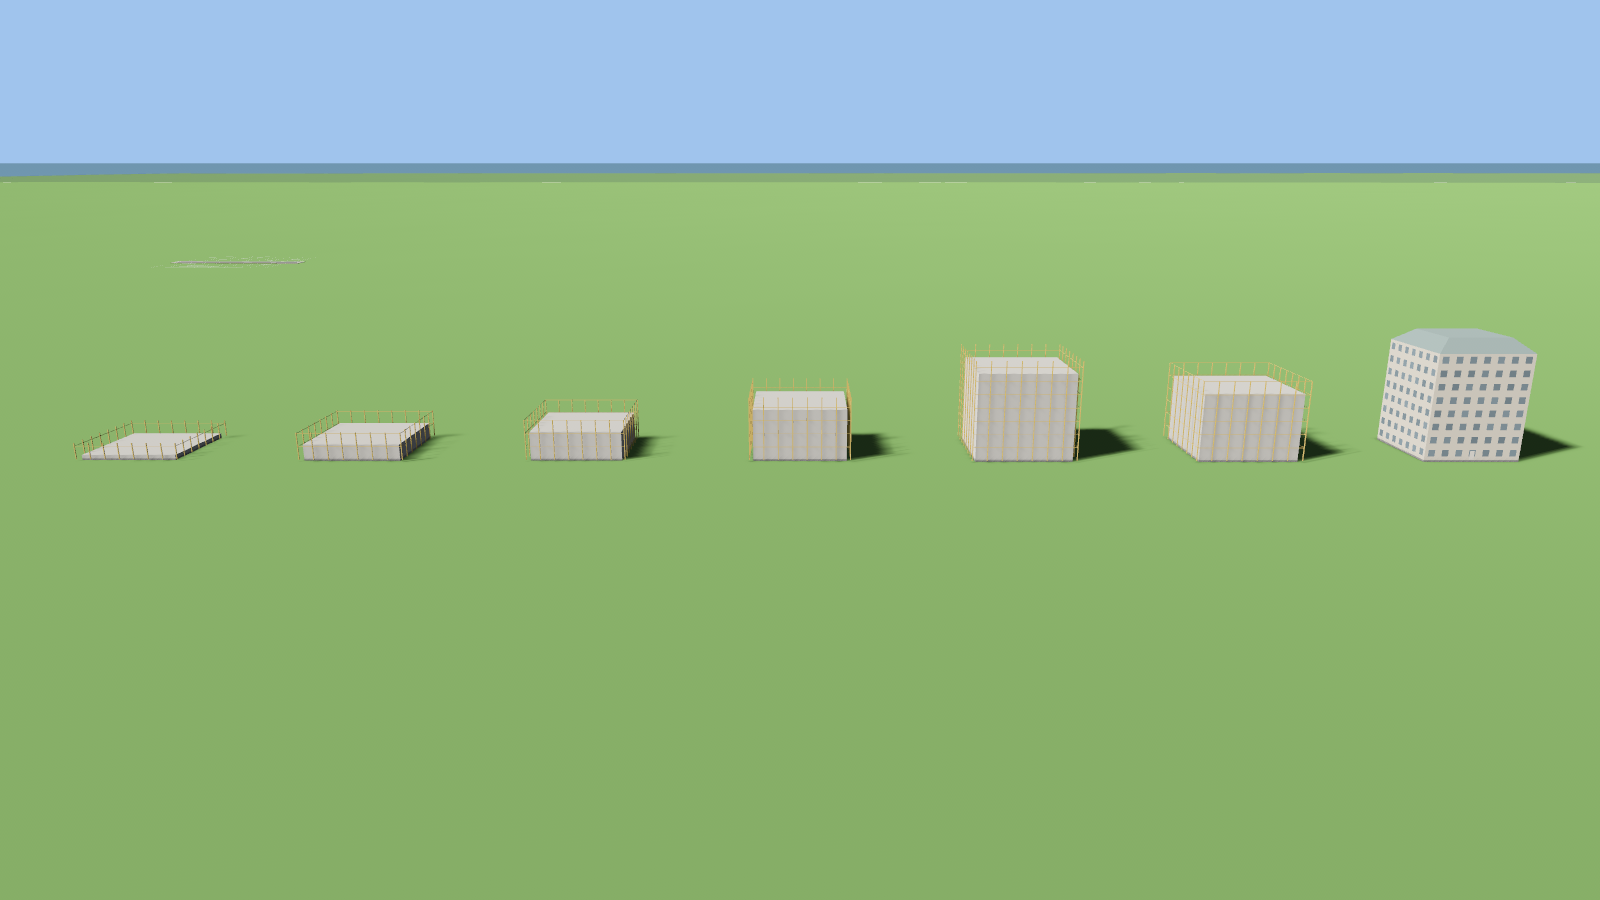
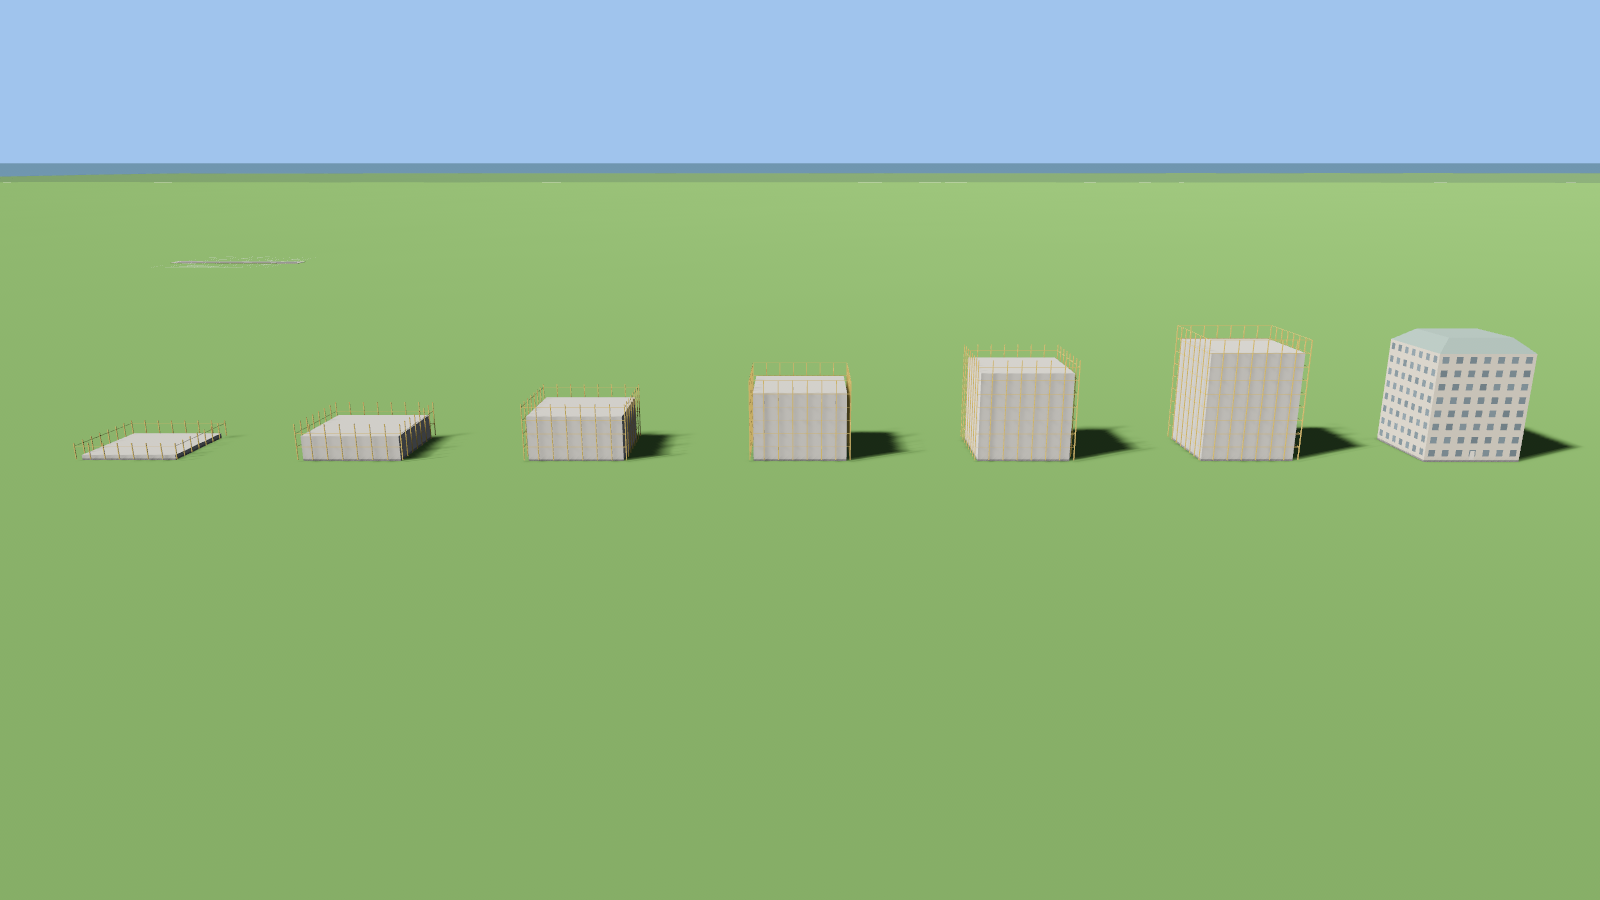
T-235: construction scene shows one def and one floor count (monotonic up to the finished building); construction buildings get their own chunk batch (ChunkKey): a stage change re-merges only those, not the finished buildings around (10k buildings, 200 sites: 13.0 -> 1.2 ms per refresh, worst 92 -> 

diff --git a/crates/cp_render/src/building/tests.rs b/crates/cp_render/src/building/tests.rs
@@ -1103,3 +1103,106 @@ fn a_pump_on_water_stands_above_the_surface() {
     assert!(hut_bottoms.count() > 0);
     assert!(lo.y < surface, "the foundation reaches the bed");
 }
+
+/// T-235 probe: what refreshing the construction stages every 32 ticks costs in a big city.
+/// `cargo test -p cp_render --release building::tests::construction_refresh_cost -- --ignored --nocapture`
+#[test]
+#[ignore = "timing probe, prints numbers"]
+fn construction_refresh_cost() {
+    let e = env();
+    let defs: Vec<_> =
+        e.db.buildings()
+            .filter(|(_, d)| {
+                matches!(
+                    d.zone,
+                    cp_content::ZoneType::ResLow
+                        | cp_content::ZoneType::ResHigh
+                        | cp_content::ZoneType::ComLow
+                )
+            })
+            .map(|(i, _)| i)
+            .collect();
+    for sites in [0usize, 200, 600] {
+        let mut grid = BuildingGrid::new();
+        let mut rng = 12345u64;
+        let mut next = || {
+            rng = rng
+                .wrapping_mul(6364136223846793005)
+                .wrapping_add(1442695040888963407);
+            (rng >> 33) as f32 / (1u64 << 31) as f32
+        };
+        for i in 0..10_000usize {
+            let def = defs[i % defs.len()];
+            let total = build_ticks(e.db.building(def));
+            let mut b = if i < sites {
+                // Spread over the whole construction so some stage changes every refresh.
+                let ready = 5000 + (next() * total as f32) as u64;
+                building(def, &e.db, BuildingState::UnderConstruction, ready)
+            } else {
+                building(def, &e.db, BuildingState::Active, 0)
+            };
+            b.pos = Vec2::new(4000.0 + next() * 2200.0, 4000.0 + next() * 2200.0);
+            grid.insert(b);
+        }
+        let mut set = BuildingSet::default();
+        let t = std::time::Instant::now();
+        set.update(&grid, &e.net, &e.db, &e.terrain, Tick(5000));
+        let first = t.elapsed().as_secs_f64() * 1000.0;
+        let (mut worst_ms, mut sum_ms, mut rebuilt, mut chunks) = (0.0f64, 0.0f64, 0usize, 0usize);
+        let mut upd_ms = 0.0f64;
+        let steps = 100u64;
+        for k in 1..=steps {
+            let t = std::time::Instant::now();
+            let up = set.update(&grid, &e.net, &e.db, &e.terrain, Tick(5000 + k * 32));
+            upd_ms += t.elapsed().as_secs_f64() * 1000.0;
+            for c in &up.dirty_chunks {
+                for l in 0..3 {
+                    let _ = set.chunk_mesh(*c, l);
+                }
+                let _ = set.chunk_bounds(*c);
+            }
+            let ms = t.elapsed().as_secs_f64() * 1000.0;
+            worst_ms = worst_ms.max(ms);
+            sum_ms += ms;
+            rebuilt += up.rebuilt;
+            chunks += up.dirty_chunks.len();
+        }
+        println!(
+            "10k buildings, {sites} sites: first build {first:.0} ms; per 32-tick refresh avg {:.2} ms (of which update() {:.2}), worst {worst_ms:.2} ms, {:.1} pieces and {:.1} chunks rebuilt per refresh",
+            sum_ms / steps as f64,
+            upd_ms / steps as f64,
+            rebuilt as f64 / steps as f64,
+            chunks as f64 / steps as f64,
+        );
+    }
+}
+
+#[test]
+fn buildings_under_construction_have_their_own_batch_so_a_stage_never_remerges_the_finished_ones() {
+    let e = env();
+    let def = e.db.buildings().next().unwrap().0;
+    let total = build_ticks(e.db.building(def));
+    let mut grid = BuildingGrid::new();
+    for _ in 0..5 {
+        grid.insert(building(def, &e.db, BuildingState::Active, 0));
+    }
+    grid.insert(building(
+        def,
+        &e.db,
+        BuildingState::UnderConstruction,
+        total,
+    ));
+    let mut set = BuildingSet::default();
+    set.update(&grid, &e.net, &e.db, &e.terrain, Tick(0));
+    let keys: Vec<_> = set.chunks().copied().collect();
+    assert_eq!(
+        keys.len(),
+        2,
+        "one finished and one construction batch: {keys:?}"
+    );
+    assert!(keys.iter().any(|k| k.1) && keys.iter().any(|k| !k.1));
+    // The next stage dirties the construction batch only.
+    let up = set.update(&grid, &e.net, &e.db, &e.terrain, Tick(total / 16 + 1));
+    assert_eq!(up.rebuilt, 1);
+    assert!(up.dirty_chunks.iter().all(|k| k.1), "{:?}", up.dirty_chunks);
+}

diff --git a/crates/cp_app/src/scene.rs b/crates/cp_app/src/scene.rs
@@ -203,35 +203,65 @@ pub fn build_trucks(sim: &mut SimRunner) -> usize {
 /// and, last, finished; the sim stands still. Look at it with `--cam construction`.
 pub const CONSTRUCTION: &str = "construction";
 
-/// Builds the [`CONSTRUCTION`] scene; returns how many buildings stand.
+/// Builds the [`CONSTRUCTION`] scene: seven buildings of one def and one floor count (the look
+/// of a building is a hash of its id, so candidates are made and the ones that match kept).
+/// Returns how many buildings stand.
 pub fn build_construction(sim: &mut SimRunner, def_name: &str) -> usize {
-    use cp_building::BuildingState;
+    use cp_building::{BuildingGrid, BuildingState};
+    const SLOTS: usize = 7;
     let now = sim.tick().0;
-    let n = build_showcase_with(
-        sim,
-        |db| {
-            let id = db.building_id(def_name).expect("the construction def");
-            (0..7)
-                .map(|i| (id, -150.0 + i as f32 * 50.0, 0.0))
-                .collect()
-        },
-        |i, d| {
-            let total = cp_building::build_ticks(d);
-            if i == 6 {
-                (BuildingState::Active, cp_core::Tick(0))
-            } else {
-                // `ready_at - tick` is what is left (the sim stands still from here).
-                let done = [0.0f32, 0.2, 0.4, 0.6, 0.8, 0.99][i];
-                (
-                    BuildingState::UnderConstruction,
-                    cp_core::Tick(now + ((1.0 - done) * total as f32).ceil() as u64),
-                )
-            }
-        },
-    );
+    let db = embedded_content();
+    build_showcase_defs(sim, |db| {
+        let id = db.building_id(def_name).expect("the construction def");
+        (0..48).map(|_| (id, 0.0, 0.0)).collect()
+    });
+    let mut grid = sim.world_mut().resource_mut::<BuildingGrid>();
+    let floors_of = |grid: &BuildingGrid| -> Vec<(cp_building::BuildingId, u8)> {
+        grid.iter()
+            .map(|(id, b)| {
+                let f = cp_render::building::variant_for(&db, id, b, db.building(b.def))
+                    .1
+                    .floors;
+                (id, f)
+            })
+            .collect()
+    };
+    let all = floors_of(&grid);
+    // The tallest floor count that at least SLOTS candidates share.
+    let floors = (1..=u8::MAX)
+        .rev()
+        .find(|&f| all.iter().filter(|c| c.1 == f).count() >= SLOTS)
+        .expect("seven candidates of one height");
+    let keep: Vec<_> = all
+        .iter()
+        .filter(|c| c.1 == floors)
+        .take(SLOTS)
+        .map(|c| c.0)
+        .collect();
+    for (id, _) in &all {
+        if !keep.contains(id) {
+            grid.remove(*id);
+        }
+    }
+    for (i, id) in keep.iter().enumerate() {
+        let b = grid.get_mut(*id).expect("a kept building");
+        let total = cp_building::build_ticks(db.building(b.def));
+        b.pos = Vec2::new(
+            cp_terrain::MAP_SIZE / 2.0 - 150.0 + i as f32 * 50.0,
+            cp_terrain::MAP_SIZE / 2.0 - 130.0,
+        );
+        if i == SLOTS - 1 {
+            b.state = BuildingState::Active;
+        } else {
+            // `ready_at - tick` is what is left (the sim stands still from here).
+            let done = [0.0f32, 0.2, 0.4, 0.6, 0.8, 0.99][i];
+            b.state = BuildingState::UnderConstruction;
+            b.ready_at = cp_core::Tick(now + ((1.0 - done) * total as f32).ceil() as u64);
+        }
+    }
     sim.world_mut()
         .insert_resource(cp_core::time::SimSpeed::Pause);
-    n
+    SLOTS
 }
 
 /// City parks scene (T-221): the four parks in a row. Look at it with `--cam parks`.

diff --git a/crates/cp_render/src/building/mod.rs b/crates/cp_render/src/building/mod.rs
@@ -1021,6 +1021,11 @@ pub fn building_stamp(b: &Building, total: u64, tick: Tick) -> u64 {
     h
 }
 
+/// A batch of buildings: a chunk cell and whether it holds the buildings under construction.
+/// Those have a batch of their own (T-235): their look changes every few dozen ticks, and
+/// rebuilding the few of them is far cheaper than re-merging every finished building around.
+pub type ChunkKey = ((i32, i32), bool);
+
 /// Chunk cell of a point.
 pub fn chunk_of(p: Vec3) -> (i32, i32) {
     (
@@ -1031,7 +1036,7 @@ pub fn chunk_of(p: Vec3) -> (i32, i32) {
 
 struct Entry {
     stamp: u64,
-    chunk: (i32, i32),
+    chunk: ChunkKey,
     piece: BuildingPiece,
     constructing: bool,
 }
@@ -1041,14 +1046,14 @@ struct Entry {
 pub struct Update {
     pub rebuilt: usize,
     pub removed: usize,
-    pub dirty_chunks: BTreeSet<(i32, i32)>,
+    pub dirty_chunks: BTreeSet<ChunkKey>,
 }
 
 /// All building pieces, batched by chunk.
 #[derive(Default)]
 pub struct BuildingSet {
     pieces: BTreeMap<BuildingId, Entry>,
-    by_chunk: BTreeMap<(i32, i32), BTreeSet<BuildingId>>,
+    by_chunk: BTreeMap<ChunkKey, BTreeSet<BuildingId>>,
 }
 
 impl BuildingSet {
@@ -1061,7 +1066,7 @@ impl BuildingSet {
         self.pieces.values().filter(|e| e.constructing).count()
     }
 
-    pub fn chunks(&self) -> impl Iterator<Item = &(i32, i32)> {
+    pub fn chunks(&self) -> impl Iterator<Item = &ChunkKey> {
         self.by_chunk.keys()
     }
 
@@ -1106,7 +1111,10 @@ impl BuildingSet {
             }
             let piece = build_building(id, b, db.building(b.def), net, terrain, db, tick);
             self.remove(id, &mut up);
-            let chunk = chunk_of(piece.center());
+            let chunk = (
+                chunk_of(piece.center()),
+                b.state == BuildingState::UnderConstruction,
+            );
             self.by_chunk.entry(chunk).or_default().insert(id);
             up.dirty_chunks.insert(chunk);
             up.rebuilt += 1;
@@ -1136,7 +1144,7 @@ impl BuildingSet {
     }
 
     /// Merged mesh of a chunk at one detail level (0 near, 1 mid, 2 far).
-    pub fn chunk_mesh(&self, chunk: (i32, i32), level: usize) -> Option<MeshData> {
+    pub fn chunk_mesh(&self, chunk: ChunkKey, level: usize) -> Option<MeshData> {
         let ids = self.by_chunk.get(&chunk)?;
         let mut m = MeshData::default();
         for id in ids {
@@ -1146,7 +1154,7 @@ impl BuildingSet {
         Some(m)
     }
 
-    pub fn chunk_bounds(&self, chunk: (i32, i32)) -> Option<(Vec3, Vec3)> {
+    pub fn chunk_bounds(&self, chunk: ChunkKey) -> Option<(Vec3, Vec3)> {
         let ids = self.by_chunk.get(&chunk)?;
         let (mut lo, mut hi) = (Vec3::splat(f32::MAX), Vec3::splat(f32::MIN));
         for id in ids {

diff --git a/crates/cp_render/src/building_render.rs b/crates/cp_render/src/building_render.rs
@@ -66,7 +66,7 @@ pub(crate) struct BuildingState {
     last: Option<Arc<BuildingGrid>>,
     /// Tick bucket at which construction looks were last refreshed.
     last_bucket: u64,
-    chunks: BTreeMap<(i32, i32), Entity>,
+    chunks: BTreeMap<crate::building::ChunkKey, Entity>,
     material: Option<Handle<VertexColorMaterial>>,
     /// Turbine rotors: the entity and the rotor it was built for.
     rotors: BTreeMap<cp_building::BuildingId, (Entity, Rotor)>,
